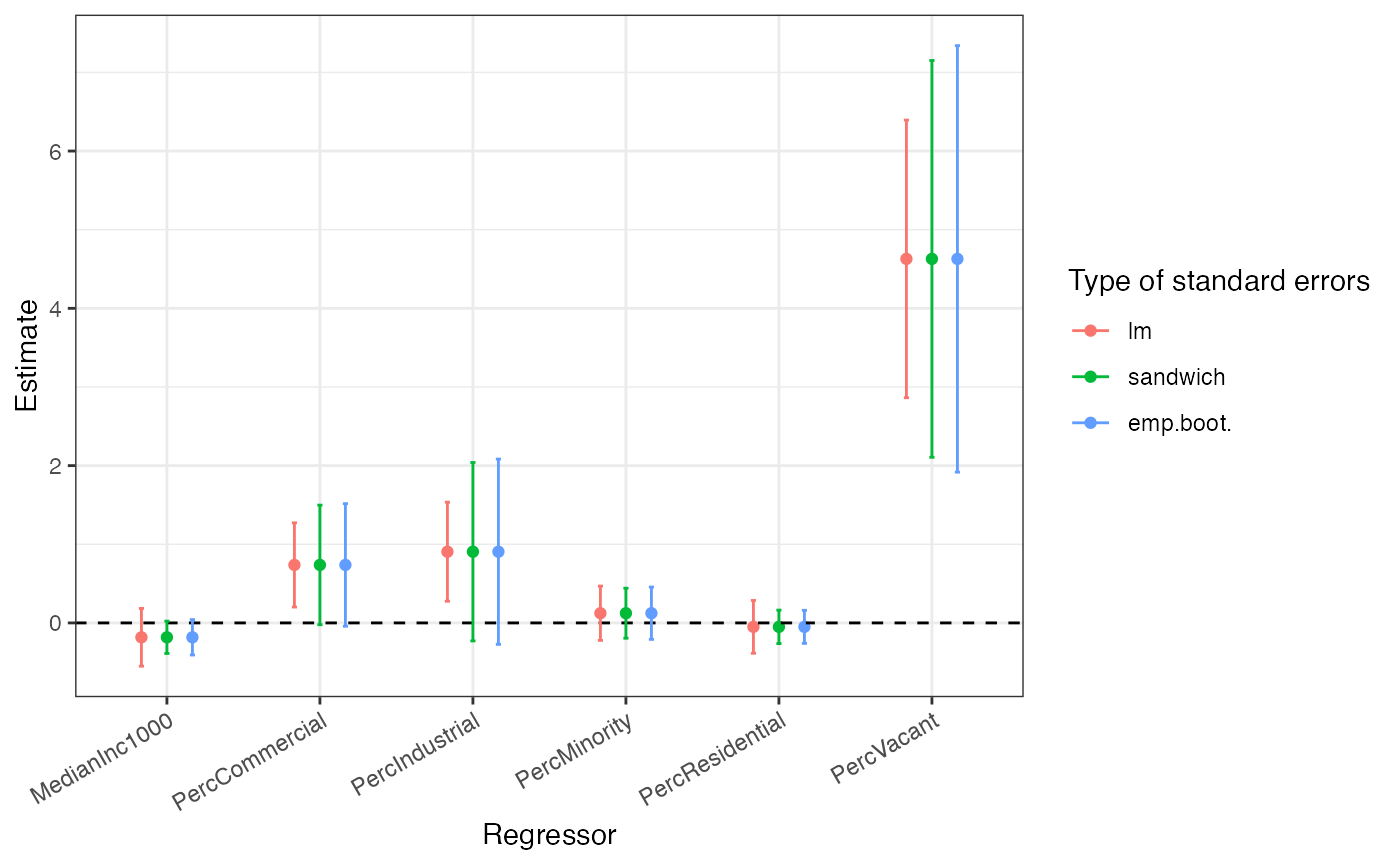
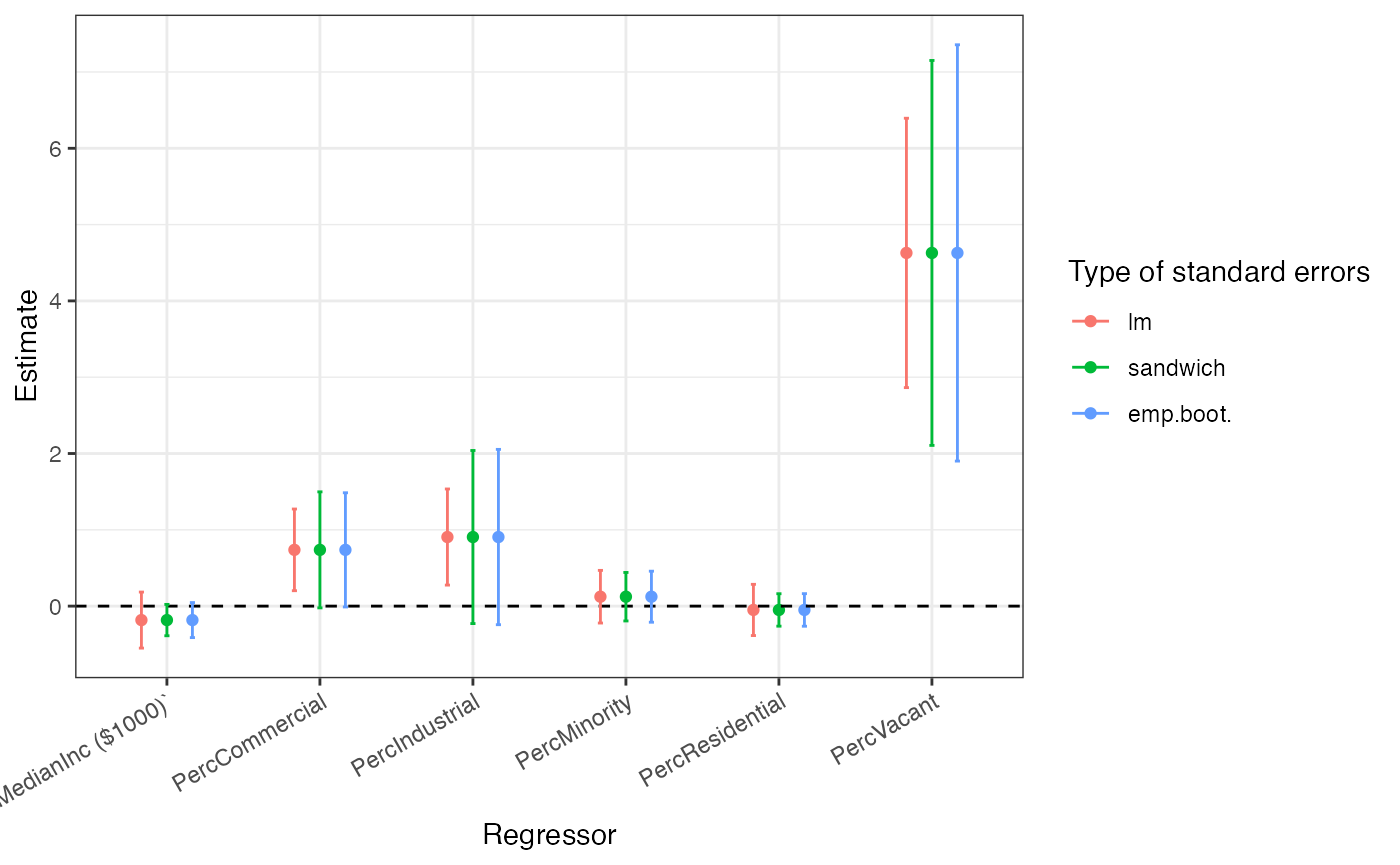
FT: #20 Fix the rlang errors - first attempt

diff --git a/docs/articles/se-la-county-data.html b/docs/articles/se-la-county-data.html
@@ -121,8 +121,7 @@ Table 1 from <span class="citation">(Buja et al. 2019)</span>
                                 <span class="st">"STAT-961/Homeless_LA_by_Census_Tracts.csv"</span>,
                                 .sep <span class="op">=</span> <span class="st">"/"</span><span class="op">)</span>
 
-<span class="va">la_county_df</span> <span class="op">&lt;-</span> <span class="fu">vroom</span><span class="fu">::</span><span class="fu"><a href="https://vroom.r-lib.org/reference/vroom.html">vroom</a></span><span class="op">(</span>file <span class="op">=</span> <span class="va">url_la_county_dat</span><span class="op">)</span> <span class="op">%&gt;%</span> 
-                  <span class="fu">dplyr</span><span class="fu">::</span><span class="fu"><a href="https://dplyr.tidyverse.org/reference/rename.html">rename</a></span><span class="op">(</span><span class="st">"MedianInc1000"</span> <span class="op">=</span> <span class="st">"MedianInc ($1000)"</span><span class="op">)</span>
+<span class="va">la_county_df</span> <span class="op">&lt;-</span> <span class="fu">vroom</span><span class="fu">::</span><span class="fu"><a href="https://vroom.r-lib.org/reference/vroom.html">vroom</a></span><span class="op">(</span>file <span class="op">=</span> <span class="va">url_la_county_dat</span><span class="op">)</span> <span class="co"># %&gt;% dplyr::rename("MedianInc1000" = "MedianInc ($1000)")</span>
 <span class="va">la_county_df</span> <span class="op">%&gt;%</span> <span class="fu"><a href="https://rdrr.io/r/base/dim.html">dim</a></span><span class="op">(</span>x <span class="op">=</span> <span class="va">.</span><span class="op">)</span>
 <span class="co">#&gt; [1] 505   7</span></code></pre></div>
 <p>The loaded dataset contains 505 observations and 7 covariates.</p>
@@ -138,7 +137,7 @@ Table 1 from <span class="citation">(Buja et al. 2019)</span>
 StreetTotal
 </th>
 <th style="text-align:center;">
-MedianInc1000
+MedianInc ($1000)
 </th>
 <th style="text-align:center;">
 PercVacant
@@ -340,7 +339,7 @@ Term
 </tr>
 <tr>
 <td style="text-align:center;">
-MedianInc1000
+<code>MedianInc ($1000)</code>
 </td>
 <td style="text-align:center;">
 0.19
@@ -452,30 +451,30 @@ Term
 0.76
 </td>
 <td style="text-align:center;">
-16.69
-</td>
-<td style="text-align:center;">
-0.05
+16.91
 </td>
 <td style="text-align:center;">
 0.04
 </td>
+<td style="text-align:center;">
+0.03
+</td>
 </tr>
 <tr>
 <td style="text-align:center;">
-MedianInc1000
+<code>MedianInc ($1000)</code>
 </td>
 <td style="text-align:center;">
 -0.18
 </td>
 <td style="text-align:center;">
-0.11
+0.12
 </td>
 <td style="text-align:center;">
--1.59
+-1.56
 </td>
 <td style="text-align:center;">
-0.89
+0.90
 </td>
 </tr>
 <tr>
@@ -486,13 +485,13 @@ PercCommercial
 0.74
 </td>
 <td style="text-align:center;">
-0.40
+0.38
 </td>
 <td style="text-align:center;">
-1.85
+1.93
 </td>
 <td style="text-align:center;">
-0.94
+0.95
 </td>
 </tr>
 <tr>
@@ -503,13 +502,13 @@ PercIndustrial
 0.91
 </td>
 <td style="text-align:center;">
-0.60
+0.59
 </td>
 <td style="text-align:center;">
-1.51
+1.54
 </td>
 <td style="text-align:center;">
-0.86
+0.89
 </td>
 </tr>
 <tr>
@@ -523,7 +522,7 @@ PercMinority
 0.17
 </td>
 <td style="text-align:center;">
-0.73
+0.72
 </td>
 <td style="text-align:center;">
 0.53
@@ -540,10 +539,10 @@ PercResidential
 0.11
 </td>
 <td style="text-align:center;">
--0.47
+-0.46
 </td>
 <td style="text-align:center;">
-0.36
+0.38
 </td>
 </tr>
 <tr>
@@ -554,10 +553,10 @@ PercVacant
 4.63
 </td>
 <td style="text-align:center;">
-1.38
+1.39
 </td>
 <td style="text-align:center;">
-3.35
+3.33
 </td>
 <td style="text-align:center;">
 0.99
@@ -573,15 +572,15 @@ PercVacant
   <span class="fu">tidyr</span><span class="fu">::</span><span class="fu"><a href="https://tidyr.tidyverse.org/reference/pivot_wider.html">pivot_wider</a></span><span class="op">(</span>names_from <span class="op">=</span> <span class="va">q</span>, values_from <span class="op">=</span> <span class="va">x</span><span class="op">)</span>
 <span class="co">#&gt; # A tibble: 7 x 3</span>
 <span class="co">#&gt; # Groups:   term [7]</span>
-<span class="co">#&gt;   term              `0.025` `0.975`</span>
-<span class="co">#&gt;   &lt;chr&gt;               &lt;dbl&gt;   &lt;dbl&gt;</span>
-<span class="co">#&gt; 1 (Intercept)     -29.6     33.9   </span>
-<span class="co">#&gt; 2 MedianInc1000    -0.441    0.0156</span>
-<span class="co">#&gt; 3 PercCommercial    0.00147  1.54  </span>
-<span class="co">#&gt; 4 PercIndustrial   -0.153    2.22  </span>
-<span class="co">#&gt; 5 PercMinority     -0.200    0.458 </span>
-<span class="co">#&gt; 6 PercResidential  -0.277    0.155 </span>
-<span class="co">#&gt; 7 PercVacant        2.65     8.06</span></code></pre></div>
+<span class="co">#&gt;   term                 `0.025` `0.975`</span>
+<span class="co">#&gt;   &lt;chr&gt;                  &lt;dbl&gt;   &lt;dbl&gt;</span>
+<span class="co">#&gt; 1 (Intercept)         -33.0    33.3   </span>
+<span class="co">#&gt; 2 `MedianInc ($1000)`  -0.442   0.0289</span>
+<span class="co">#&gt; 3 PercCommercial        0.0331  1.52  </span>
+<span class="co">#&gt; 4 PercIndustrial       -0.134   2.14  </span>
+<span class="co">#&gt; 5 PercMinority         -0.206   0.487 </span>
+<span class="co">#&gt; 6 PercResidential      -0.276   0.160 </span>
+<span class="co">#&gt; 7 PercVacant            2.60    7.97</span></code></pre></div>
 </div>
 <div id="computing-standard-errors-from-ols-using-multiplier-bootstrap" class="section level2">
 <h2 class="hasAnchor">
@@ -614,7 +613,7 @@ PercVacant
 <span class="co">#&gt;   term  estimate std.error  t.stat   p.val std.error.sand t.stat.sand</span>
 <span class="co">#&gt;   &lt;chr&gt;    &lt;dbl&gt;     &lt;dbl&gt;   &lt;dbl&gt;   &lt;dbl&gt;          &lt;dbl&gt;       &lt;dbl&gt;</span>
 <span class="co">#&gt; 1 (Int…   0.760     22.8    0.0334 9.73e-1         15.9        0.0478</span>
-<span class="co">#&gt; 2 Medi…  -0.183      0.187 -0.977  3.29e-1          0.105     -1.75  </span>
+<span class="co">#&gt; 2 `Med…  -0.183      0.187 -0.977  3.29e-1          0.105     -1.75  </span>
 <span class="co">#&gt; 3 Perc…   4.63       0.901  5.14   3.96e-7          1.29       3.60  </span>
 <span class="co">#&gt; 4 Perc…   0.123      0.176  0.701  4.84e-1          0.162      0.761 </span>
 <span class="co">#&gt; 5 Perc…  -0.0501     0.171 -0.292  7.70e-1          0.108     -0.462 </span>
@@ -740,18 +739,18 @@ Term
 0.96
 </td>
 <td style="text-align:center;">
-16.69
-</td>
-<td style="text-align:center;">
-0.05
+16.91
 </td>
 <td style="text-align:center;">
 0.04
 </td>
+<td style="text-align:center;">
+0.03
+</td>
 </tr>
 <tr>
 <td style="text-align:center;">
-MedianInc1000
+<code>MedianInc ($1000)</code>
 </td>
 <td style="text-align:center;">
 -0.18
@@ -775,13 +774,13 @@ MedianInc1000
 0.08
 </td>
 <td style="text-align:center;">
-0.11
+0.12
 </td>
 <td style="text-align:center;">
--1.59
+-1.56
 </td>
 <td style="text-align:center;">
-0.89
+0.90
 </td>
 </tr>
 <tr>
@@ -810,10 +809,10 @@ PercVacant
 0.00
 </td>
 <td style="text-align:center;">
-1.38
+1.39
 </td>
 <td style="text-align:center;">
-3.35
+3.33
 </td>
 <td style="text-align:center;">
 0.99
@@ -848,7 +847,7 @@ PercMinority
 0.17
 </td>
 <td style="text-align:center;">
-0.73
+0.72
 </td>
 <td style="text-align:center;">
 0.53
@@ -883,10 +882,10 @@ PercResidential
 0.11
 </td>
 <td style="text-align:center;">
--0.47
+-0.46
 </td>
 <td style="text-align:center;">
-0.36
+0.38
 </td>
 </tr>
 <tr>
@@ -915,13 +914,13 @@ PercCommercial
 0.06
 </td>
 <td style="text-align:center;">
-0.40
+0.38
 </td>
 <td style="text-align:center;">
-1.85
+1.93
 </td>
 <td style="text-align:center;">
-0.94
+0.95
 </td>
 </tr>
 <tr>
@@ -950,13 +949,13 @@ PercIndustrial
 0.12
 </td>
 <td style="text-align:center;">
-0.60
+0.59
 </td>
 <td style="text-align:center;">
-1.51
+1.54
 </td>
 <td style="text-align:center;">
-0.86
+0.89
 </td>
 </tr>
 </tbody>

diff --git a/vignettes/figures/output/r05_se_comb.tex b/vignettes/figures/output/r05_se_comb.tex
@@ -1,18 +1,18 @@
 % latex table generated in R 4.0.2 by xtable 1.8-4 package
-% Mon Dec 14 23:34:49 2020
+% Wed Dec 23 16:23:11 2020
 \begin{table}[ht]
 \centering
 \begin{tabular}{lrrrrrrrr}
   \hline
 Term & $\widehat{\beta}_{j}$ & $SE_{\text{lin}}$ & $SE_{\text{sand}}$ & $t_{\text{sand}}$ & $p_{\text{sand}}$ & $SE_{\text{boot}}$ & $t_{\text{boot}}$ & $p_{\text{boot}}$ \\ 
   \hline
-(Intercept) & 0.76 & 22.77 & 15.91 & 0.05 & 0.96 & 16.69 & 0.05 & 0.04 \\ 
-  MedianInc1000 & -0.18 & 0.19 & 0.10 & -1.75 & 0.08 & 0.11 & -1.59 & 0.89 \\ 
-  PercVacant & 4.63 & 0.90 & 1.29 & 3.60 & 0.00 & 1.38 & 3.35 & 0.99 \\ 
-  PercMinority & 0.12 & 0.18 & 0.16 & 0.76 & 0.45 & 0.17 & 0.73 & 0.53 \\ 
-  PercResidential & -0.05 & 0.17 & 0.11 & -0.46 & 0.64 & 0.11 & -0.47 & 0.36 \\ 
-  PercCommercial & 0.74 & 0.27 & 0.39 & 1.90 & 0.06 & 0.40 & 1.85 & 0.94 \\ 
-  PercIndustrial & 0.91 & 0.32 & 0.58 & 1.56 & 0.12 & 0.60 & 1.51 & 0.86 \\ 
+(Intercept) & 0.76 & 22.77 & 15.91 & 0.05 & 0.96 & 16.91 & 0.04 & 0.03 \\ 
+  `MedianInc ($1000)` & -0.18 & 0.19 & 0.10 & -1.75 & 0.08 & 0.12 & -1.56 & 0.90 \\ 
+  PercVacant & 4.63 & 0.90 & 1.29 & 3.60 & 0.00 & 1.39 & 3.33 & 0.99 \\ 
+  PercMinority & 0.12 & 0.18 & 0.16 & 0.76 & 0.45 & 0.17 & 0.72 & 0.53 \\ 
+  PercResidential & -0.05 & 0.17 & 0.11 & -0.46 & 0.64 & 0.11 & -0.46 & 0.38 \\ 
+  PercCommercial & 0.74 & 0.27 & 0.39 & 1.90 & 0.06 & 0.38 & 1.93 & 0.95 \\ 
+  PercIndustrial & 0.91 & 0.32 & 0.58 & 1.56 & 0.12 & 0.59 & 1.54 & 0.89 \\ 
    \hline
 \end{tabular}
 \caption{Summary - Sandwich Estimator and Empirical Bootstrap} 

diff --git a/vignettes/figures/output/r02b_se_emp.tex b/vignettes/figures/output/r02b_se_emp.tex
@@ -1,18 +1,18 @@
 % latex table generated in R 4.0.2 by xtable 1.8-4 package
-% Mon Dec 14 23:34:45 2020
+% Wed Dec 23 16:23:08 2020
 \begin{table}[ht]
 \centering
 \begin{tabular}{lrrrr}
   \hline
 Term & $\widehat{\beta}_{j}$ & $SE_{\text{boot}}$ & $t_{\text{boot}}$ & $p_{\text{boot}}$ \\ 
   \hline
-(Intercept) & 0.76 & 16.69 & 0.05 & 0.04 \\ 
-  MedianInc1000 & -0.18 & 0.11 & -1.59 & 0.89 \\ 
-  PercCommercial & 0.74 & 0.40 & 1.85 & 0.94 \\ 
-  PercIndustrial & 0.91 & 0.60 & 1.51 & 0.86 \\ 
-  PercMinority & 0.12 & 0.17 & 0.73 & 0.53 \\ 
-  PercResidential & -0.05 & 0.11 & -0.47 & 0.36 \\ 
-  PercVacant & 4.63 & 1.38 & 3.35 & 0.99 \\ 
+(Intercept) & 0.76 & 16.91 & 0.04 & 0.03 \\ 
+  `MedianInc ($1000)` & -0.18 & 0.12 & -1.56 & 0.90 \\ 
+  PercCommercial & 0.74 & 0.38 & 1.93 & 0.95 \\ 
+  PercIndustrial & 0.91 & 0.59 & 1.54 & 0.89 \\ 
+  PercMinority & 0.12 & 0.17 & 0.72 & 0.53 \\ 
+  PercResidential & -0.05 & 0.11 & -0.46 & 0.38 \\ 
+  PercVacant & 4.63 & 1.39 & 3.33 & 0.99 \\ 
    \hline
 \end{tabular}
 \caption{Empirical Bootstrap Standard Errors} 

diff --git a/vignettes/figures/output/r01_se_sand.tex b/vignettes/figures/output/r01_se_sand.tex
@@ -1,5 +1,5 @@
 % latex table generated in R 4.0.2 by xtable 1.8-4 package
-% Mon Dec 14 23:34:47 2020
+% Wed Dec 23 16:23:10 2020
 \begin{table}[ht]
 \centering
 \begin{tabular}{lrrrrr}
@@ -7,7 +7,7 @@
 Term & $\widehat{\beta}_{j}$ & $SE_{\text{lin}}$ & $SE_{\text{sand}}$ & $t_{\text{sand}}$ & $p_{\text{sand}}$ \\ 
   \hline
 (Intercept) & 0.76 & 22.77 & 15.91 & 0.05 & 0.96 \\ 
-  MedianInc1000 & -0.18 & 0.19 & 0.10 & -1.75 & 0.08 \\ 
+  `MedianInc ($1000)` & -0.18 & 0.19 & 0.10 & -1.75 & 0.08 \\ 
   PercVacant & 4.63 & 0.90 & 1.29 & 3.60 & 0.00 \\ 
   PercMinority & 0.12 & 0.18 & 0.16 & 0.76 & 0.45 \\ 
   PercResidential & -0.05 & 0.17 & 0.11 & -0.46 & 0.64 \\ 
